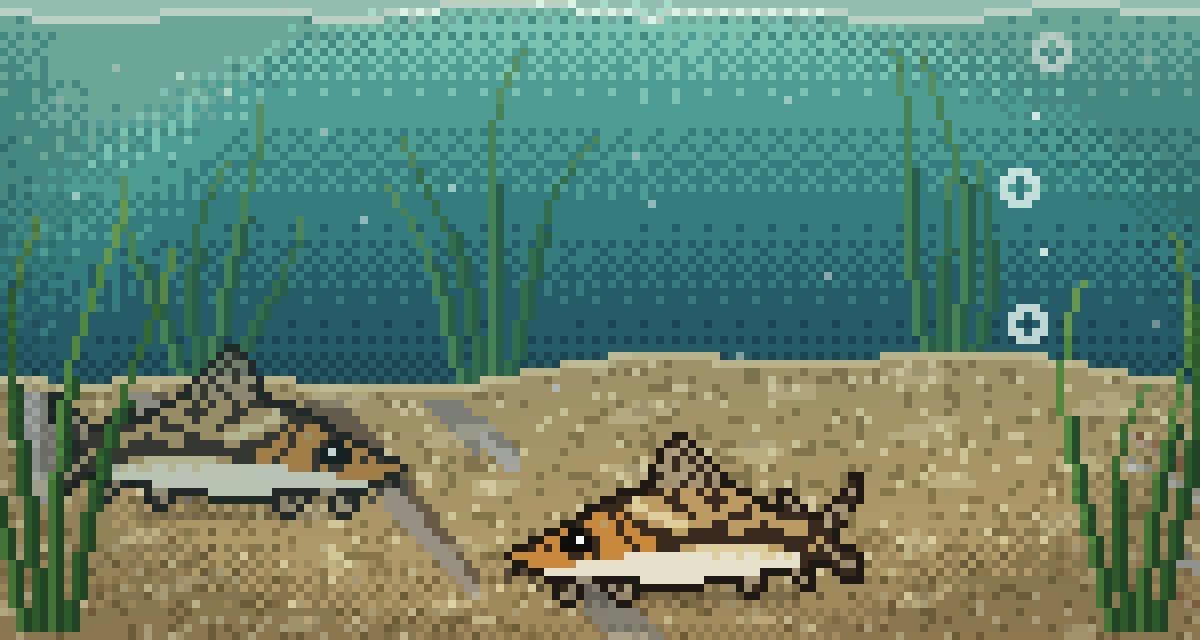
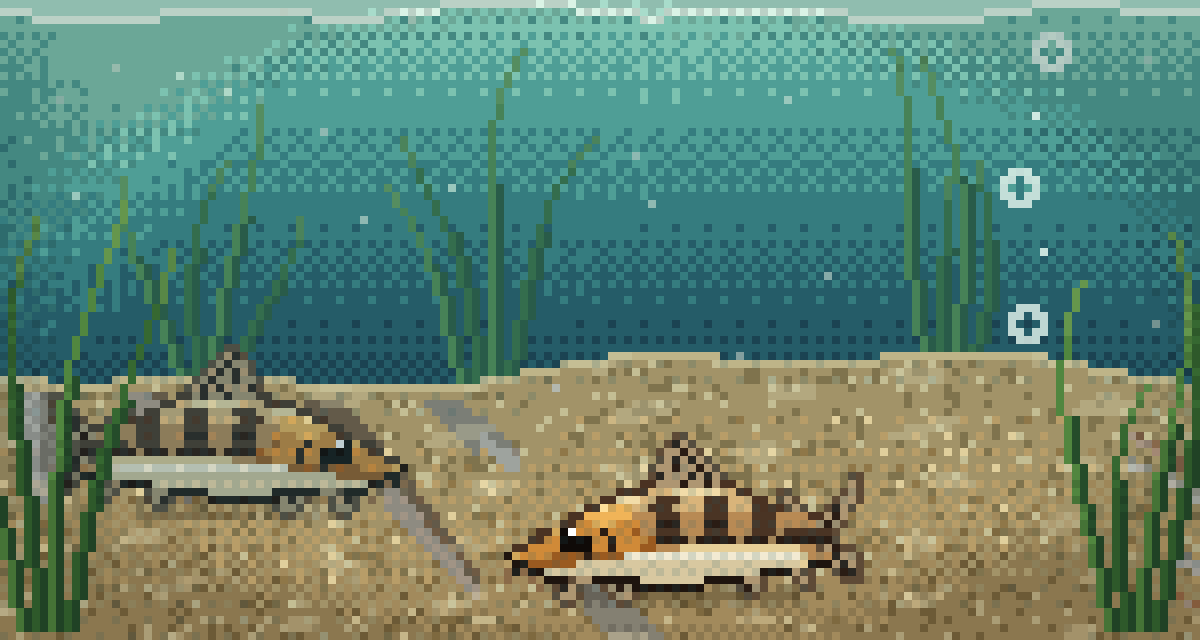
Update all art to pixel art standard using provided zip file (6ac01b8b12c2891976c0a1fb)

Changed region(s): [[0.4008, 0.6562, 0.74, 0.9688], [0.0308, 0.5312, 0.3392, 0.8125]]

diff --git a/public/game/index.html b/public/game/index.html
@@ -2,6 +2,10 @@
 <html lang="en">
 <head>
 <meta charset="utf-8">
+<meta property="og:image" content="https://thefilterfeed.netlify.app/.netlify/og-image/ddecab24150fdadd9417b8b117612819.jpg">
+<meta property="og:image:width" content="1200">
+<meta property="og:image:height" content="630">
+
 <meta name="viewport" content="width=device-width, initial-scale=1, viewport-fit=cover">
 <title>The Filter Feed — aquarium</title>
 <link rel="preconnect" href="https://fonts.googleapis.com">
@@ -69,30 +73,31 @@
 
 <script>
 const SPRITE = [
-'......................oo......................',
-'.....................ofdo.....................',
-'....................ofdffo....................',
-'...................ofdfdfo....................',
-'..................ofdffdffo...................',
-'.................ofdfdfffdo...................',
-'oo..............oofdffdfffoo..................',
-'odo......oo...oottdtdttdtddoooo...............',
-'ofdo....ofo.ootttdddtttddtttcddoo.............',
-'odffo..ofdoootdtttdtttddtttcctdddoo...........',
-'.ofdfooddddtttdddttttdttcccttdgdggoo..........',
-'..odfddtttttdttttddtttcccttddgdgtggdoo........',
-'...odddtttdddddttdddddttddddggdgggdeegoo......',
-'...odtddddddddddddddddddddgggdgggdeheeggoo....',
-'..odfdtdddttcccccccccttdddggdggggdeeeegdgdoo..',
-'.odfddddwcwccwwcwwcwwwwwwwwwwwgggdgddgggggggo.',
-'odfdooodwwwwwwwwwwwwwwwwwwwwwwwwwwwwggggggoo..',
-'ofdo..oofoooowwwwwwwwwwwwwwwwwwwwwwwwwwwoo1o1.',
-'odo...ofo...offooooowwwwwwwwooooooffoooo.1..1.',
-'oo....oo....odfo....ooooooooofdfo..ofdo.1.....',
-'.............oo.............offo...offo.......',
-'.............................oo.....oo........'];
+'......................FF......................',
+'.....................FfDF.....................',
+'....................FfDffF....................',
+'...................FfDfDfF....................',
+'..................FfDffDffF...................',
+'.................FfDfDfffDF...................',
+'FF..............SSfDffDfffSS..................',
+'FfF......FF...SSLLHHHHHHLLLSSSS...............',
+'FffF....FfF.SSLLLdddLLLdddLLHHHSS.............',
+'FffDF..FfFSSSdLLLdddLLLLdddLLYYYySS...........',
+'.FfDfSSttttdddtttdddtttdddtttYYYYYYSS.........',
+'..FfDftttttdddtttDDDtttDDDttgggYYYggSS........',
+'...FddddddtdddtttdddtttdddttGgggDgggheYSS.....',
+'...FDDDDDDDtDDDtDDDDDtDDDDGggggDggeeeeggSS....',
+'..FDfFttccccccccccccccctttGGgggDggeeeeggggSS..',
+'.FfDtttcWWWWWWWWWWWWWWWWWWWWWWGGGGDGGGGggggYO.',
+'FfDfOOOcwwwwwwwwwwwwwwwwwwwwwwwwwwwwGGGGGGOO..',
+'FfDF..FFfOOOOwwwwwwwwwwwwwwwwwwwwwwwwwwwOObOb.',
+'FDF...FfF...FffOOOOOwwwwwwwwOOOOOOffFOOO.b..b.',
+'FF....FF....FfDF....OOOOOOOOOfDfF..FfDF.b.....',
+'.............FF.............FffF...FffF.......',
+'.............................FF.....FF........'];
 const SW = SPRITE[0].length, SH = SPRITE.length;
-const CMAP = {'.':0,'o':1,'d':2,'t':3,'c':4,'g':5,'w':6,'f':7,'e':8,'h':9,'1':10};
+// art follows Derek Yu's pixel art basics: one light source above, hue-shifted ramps, selective outlines, no translucency
+const CMAP = {'.':0,'O':1,'S':2,'T':3,'t':4,'L':5,'H':6,'d':7,'D':8,'c':9,'C':10,'W':11,'w':12,'G':13,'g':14,'Y':15,'y':16,'F':17,'f':18,'e':19,'h':20,'b':21};
 
 // cherry barb (Puntius titteya); one sprite, two palettes in the shader: red male, tan female
 const BARB = [
@@ -117,25 +122,25 @@ const BCMAP = {'.':0,'o':1,'d':2,'b':3,'l':4,'s':5,'f':6,'a':7,'e':8,'h':9,'k':1
 
 // cherry shrimp (Neocaridina davidi); one sprite, four color morphs in the shader
 const SHRIMP = [
-'..............aaaaaaaaaaaaaa............',
-'............aa..............aa..........',
-'...........a..................a.........',
-'.................ooooooooooooo.a........',
-'..............oooRRRRRRRRRRRRRoa.....oo.',
-'...........oooRRrRRRrRRRRppRRRRoooooo...',
-'.........ooRRrRRRrRRRrRRRpppRRRRRo......',
-'.......ooRRrRRRrRRRrRRRRRRpRRRReeo......',
-'......oRRrRRRrRRRrRRRRRRRRRRRRRheoaaaaaa',
-'.....oRRrRRRrRRRrRRRRRRRRRRRRRRRo.......',
-'.....oRRoRRrooRrooooRRRRRRRRRRRoaaa.....',
-'....oRRRooloolloo..ollollolloo....aaa...',
-'....oRRo.l..l.l....l.l..l.l..l..........',
-'...oRrRo.l..l.l...l..l..l..l..l.........',
-'..oRRrRRo.........l...l..l..l..l........',
-'.oRro.oRo...............................',
-'.oo....o................................'];
+'..............33333333333333............',
+'............33..............33..........',
+'...........3..................3.........',
+'.................1111111111111.3........',
+'..............11133344444443331.3...11..',
+'...........1113334222222222233111111....',
+'.........113342222122221222222233O......',
+'.......113342122212222122222222heO......',
+'......134222222222222222222222eeO333333.',
+'.....1342221222122212222222222222O......',
+'.....122OOOOOOOOOOOO11111111111O333.....',
+'....1222O.3..3..3..OOOOOOOOOOO....333...',
+'....122O..2..2..2..3.3..3.3..3..........',
+'...1221O...........2..2..2..2...........',
+'..132221O.........1...1..1..1...........',
+'.132O.12O...............................',
+'.OO....O................................'];
 const RW = SHRIMP[0].length, RH = SHRIMP.length;
-const RCMAP = {'.':0,'o':1,'R':2,'r':3,'p':4,'e':5,'h':6,'a':7,'l':8};
+const RCMAP = {'.':0,'O':1,'2':2,'1':3,'4':4,'e':5,'h':6,'3':8};
 
 // uniform layout, in vec4s: header (2), fish pairs, bubbles (48), food (24), fish angles (4 per vec4), lolly (2)
 const MAX_FISH = 20;
@@ -184,6 +189,9 @@ fn hash(p: vec2f) -> f32 {
   return fract((r.x + r.y) * r.x);
 }
 
+// quantise a tint amount to fixed 0.15 steps, dithered between neighbours
+fn qtint(x: f32, d: f32) -> f32 { return floor(x / 0.15 + d) * 0.15; }
+
 fn bayer(p: vec2i) -> f32 {
   var m = array<f32, 16>(0.,8.,2.,10.,12.,4.,14.,6.,3.,11.,1.,9.,15.,7.,13.,5.);
   return (m[(p.y & 3) * 4 + (p.x & 3)] + 0.5) / 16.0;
@@ -197,9 +205,11 @@ fn groundAt(x: f32, top: f32) -> f32 {
   return top + round(sin(x * 0.045) * 2.0 + sin(x * 0.13 + 1.0) * 1.0);
 }
 
+// corydoras: outline, selout brown, tan ramp, band ramp, cream/belly, gold head ramp, fins, eye, barbels
 fn fishPal(i: u32) -> vec3f {
-  var pal = array<u32, 11>(0x000000u, 0x1e1610u, 0x3a281cu, 0xc49e62u, 0xe8d4a0u,
-                           0xd28c3cu, 0xf0e8d0u, 0xaa9678u, 0x0f0a08u, 0xffffffu, 0x5a4632u);
+  var pal = array<u32, 22>(0x000000u, 0x1e140eu, 0x4a3222u, 0x7a5634u, 0xb88a54u, 0xd9b47au, 0xf2dca8u,
+                           0x4a3424u, 0x2a1c14u, 0xe6cf98u, 0xf6e6bcu, 0xf2ead2u, 0xd8c8a0u, 0x9a5a20u,
+                           0xd08a38u, 0xf0b458u, 0xffe09au, 0x5e4a36u, 0xae9672u, 0x0f0a08u, 0xffffffu, 0x8a6a48u);
   return hex(pal[i]);
 }
 
@@ -214,10 +224,11 @@ fn barbPal(i: u32, female: bool) -> vec3f {
 
 // species 3..6 = shrimp morphs: cherry red, orange sakura, blue dream, yellow
 fn shrimpPal(i: u32, v: i32) -> vec3f {
-  var red = array<u32, 9>(0u, 0x46100eu, 0xcd2a24u, 0x8c1616u, 0xfa967du, 0x0a0606u, 0xffffffu, 0xe17d69u, 0xeb785fu);
-  var ora = array<u32, 9>(0u, 0x4a2008u, 0xe8761eu, 0xb04e10u, 0xffc080u, 0x0a0606u, 0xffffffu, 0xf0a070u, 0xf09860u);
-  var blu = array<u32, 9>(0u, 0x0c1e3cu, 0x2c5cc8u, 0x1a3a8au, 0x8ab8ffu, 0x050608u, 0xffffffu, 0x7c9ee0u, 0x6c90d8u);
-  var yel = array<u32, 9>(0u, 0x4a3a08u, 0xe8c428u, 0xb08e14u, 0xfff09au, 0x0a0606u, 0xffffffu, 0xf0d878u, 0xe8cc60u);
+  // ramps per morph: outline, mid, shadow, highlight, eye, eye shine, (unused), light; shadows lean cool, lights warm
+  var red = array<u32, 9>(0u, 0x3b0f1au, 0xc42a2au, 0x7a1626u, 0xffb08au, 0x1a0a10u, 0xffffffu, 0u, 0xe8553au);
+  var ora = array<u32, 9>(0u, 0x3d1a10u, 0xe0701cu, 0x9a3c14u, 0xffd49au, 0x1a0a10u, 0xffffffu, 0u, 0xf59a3cu);
+  var blu = array<u32, 9>(0u, 0x101436u, 0x2f5ccau, 0x1f2a7au, 0xa8dcffu, 0x0a0a18u, 0xffffffu, 0u, 0x4f8ef0u);
+  var yel = array<u32, 9>(0u, 0x3a2a10u, 0xdcb42cu, 0x8e6a1cu, 0xfff4b0u, 0x1a1408u, 0xffffffu, 0u, 0xf2d85au);
   if (v == 1) { return hex(ora[i]); }
   if (v == 2) { return hex(blu[i]); }
   if (v == 3) { return hex(yel[i]); }
@@ -264,7 +275,7 @@ fn lollySample(pf: vec2f, deepc: vec3f) -> vec4f {
       result = vec4f(c, 1.0);
     }
   }
-  if (result.a > 0.0) { result = vec4f(mix(result.rgb, deepc, L0.w * 0.45), 1.0); }
+  if (result.a > 0.0) { result = vec4f(mix(result.rgb, deepc, qtint(L0.w * 0.45, bayer(vec2i(pf)))), 1.0); }
   return result;
 }
 
@@ -344,19 +355,13 @@ fn shrimpSample(p: vec2i, f0: vec4f, f1: vec4f, ang: f32, t: f32) -> vec4f {
   if (ly < 0 || ly >= RH) { return vec4f(0.0); }
   var idx = sprite[u32(ROFF + ly * RW + lx)];
   // walking legs and swimmerets paddle in alternating waves
-  if (ly >= 12 && lx >= 8 && lx <= 32) {
+  if (ly >= 12 && lx >= 9 && lx <= 32) {
     let step = select(1, -1, sin(f1.x + f32(lx) * 0.9) > 0.0);
-    let sx = clamp(lx + step * select(0, 1, ly >= 13), 0, RW - 1);
-    let alt = sprite[u32(ROFF + ly * RW + sx)];
-    if (idx == 8u || alt == 8u) { idx = alt; }
+    let sx = clamp(lx + step * select(0, 1, ly >= 13), 9, RW - 1);
+    idx = sprite[u32(ROFF + ly * RW + sx)];
   }
   if (idx == 0u) { return vec4f(0.0); }
-  let c = shrimpPal(idx, i32(round(f1.w)) - 3);
-  var a = 1.0;
-  if (idx == 7u) { a = 0.8; }
-  if (idx == 8u) { a = 0.85; }
-  if (idx == 2u || idx == 3u) { a = 0.94; }
-  return vec4f(c, a);
+  return vec4f(shrimpPal(idx, i32(round(f1.w)) - 3), 1.0);
 }
 
 fn fishSample(p: vec2i, f0: vec4f, f1: vec4f, ang: f32, t: f32) -> vec4f {
@@ -381,9 +386,8 @@ fn fishSample(p: vec2i, f0: vec4f, f1: vec4f, ang: f32, t: f32) -> vec4f {
   if (idx == 0u) { return vec4f(0.0); }
   var c = fishPal(idx);
   var a = 1.0;
-  if (idx == 7u) { a = 0.72; }
   // barbels twitch
-  if (idx == 10u && sin(t * 3.0 + f0.x) > 0.6) { return vec4f(0.0); }
+  if (idx == 21u && sin(t * 3.0 + f0.x) > 0.6) { return vec4f(0.0); }
   return vec4f(c, a);
 }
 
@@ -453,7 +457,7 @@ fn fishSample(p: vec2i, f0: vec4f, f1: vec4f, ang: f32, t: f32) -> vec4f {
     }
     let cv = sin(pf.x * 0.33 + t * 1.1 + sin(pf.y * 0.6 + t)) + sin(pf.y * 0.9 - t * 0.8 + pf.x * 0.12);
     if (cv > 1.3 + fz * 0.4) { sand = mix(sand, hex(0xf0e3b6u), 0.35); }
-    col = mix(sand, deep, (1.0 - fz) * 0.18);
+    col = mix(sand, deep, qtint((1.0 - fz) * 0.18, d));
 
     // fish shadows
     let nF = i32(S.b.x);
@@ -477,7 +481,7 @@ fn fishSample(p: vec2i, f0: vec4f, f1: vec4f, ang: f32, t: f32) -> vec4f {
     let o = pf - vec2f(round(fd.x), round(fd.y));
     if (o.x >= 0.0 && o.x <= 1.0 && o.y >= 0.0 && o.y <= 1.0) {
       var fc2 = select(hex(0x7a3c18u), hex(0xc8642au), o.x == 0.0 && o.y == 0.0);
-      col = mix(fc2, deep, fd.z * 0.45);
+      col = mix(fc2, deep, qtint(fd.z * 0.45, d));
     }
   }
 
@@ -494,7 +498,7 @@ fn fishSample(p: vec2i, f0: vec4f, f1: vec4f, ang: f32, t: f32) -> vec4f {
     }
     let s = fishSample(p, f0, f1, S.ang[i / 4][i % 4], t);
     if (s.a > 0.0) {
-      let fcl = mix(s.rgb, deep, f0.w * 0.5);
+      let fcl = mix(s.rgb, deep, qtint(f0.w * 0.5, d));
       col = mix(col, fcl, s.a);
     }
   }
